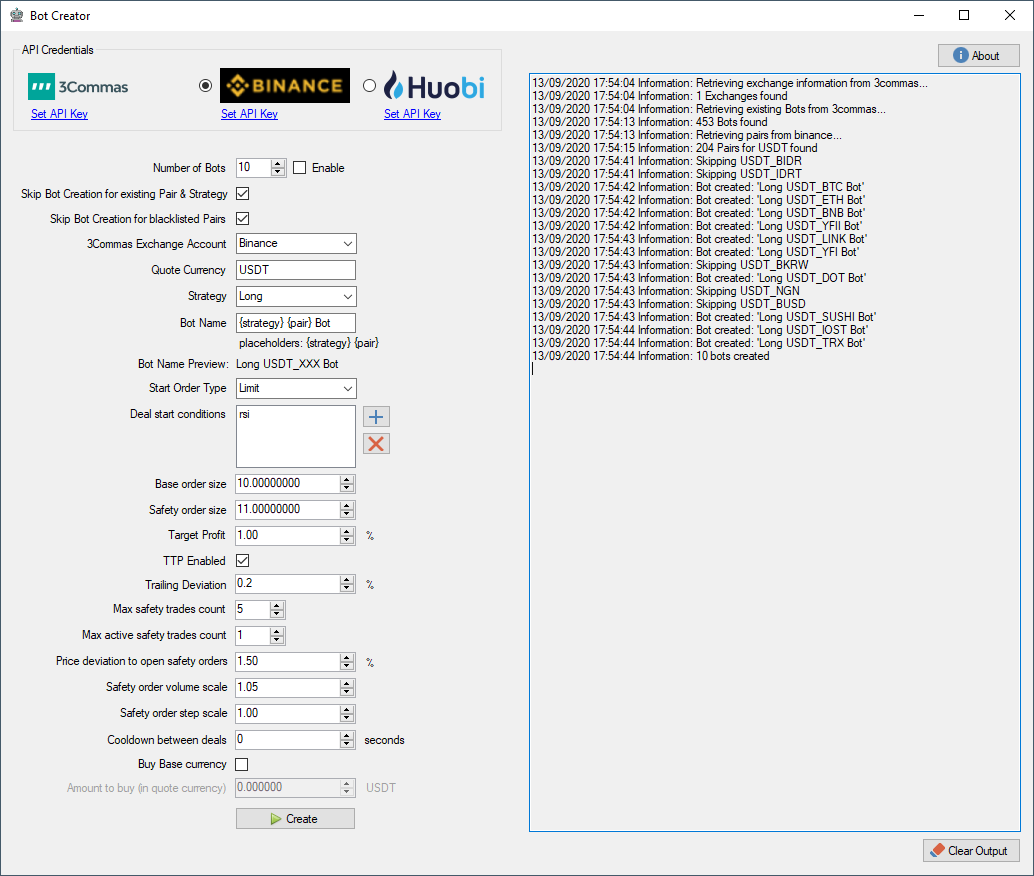
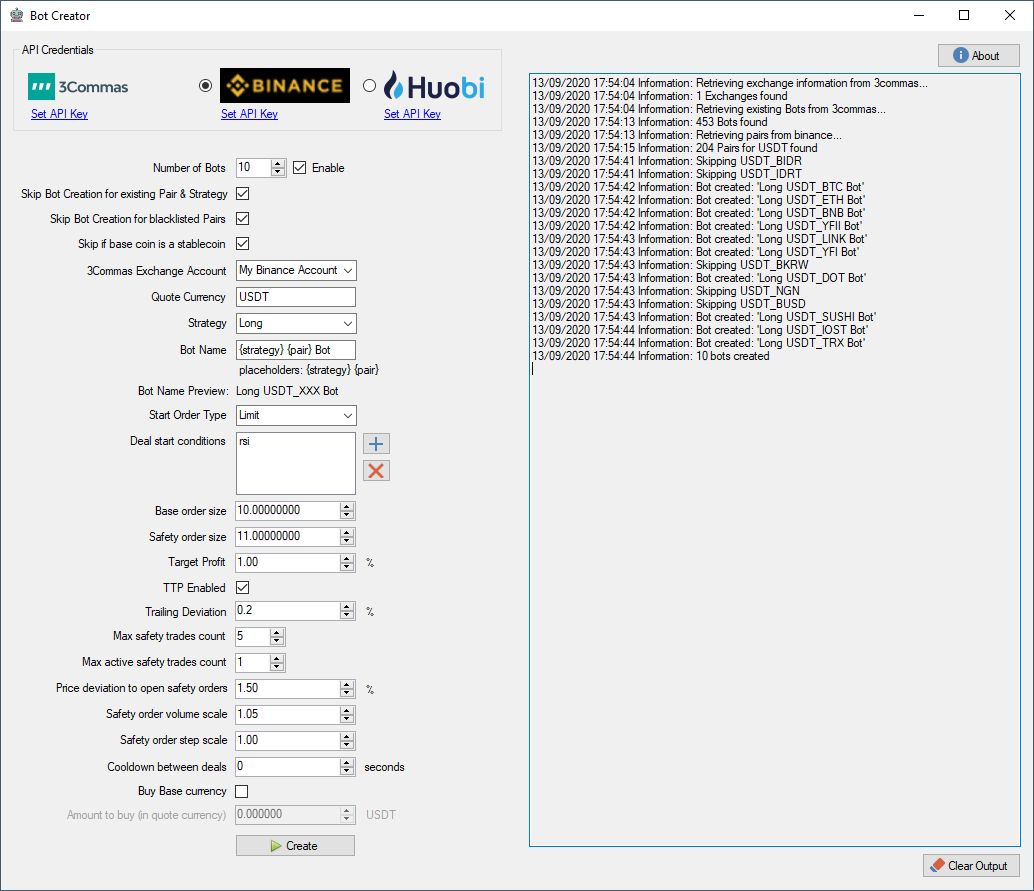
updated readme and screenshot

diff --git a/README.md b/README.md
@@ -26,6 +26,7 @@ Also if you think something is broken or have any questions, please open an [Iss
 
 - Add as many bots as you want
 - Uses pairs at the highest volume first
+- Skip bot creation if base is stablecoin
 - Skip bot creation for blacklisted pairs
 - Skip bot creation for existing pair + strategy
     - This way you can create 10 Bots, and another day the next 10 Bots without having to worry about duplicates.
@@ -35,10 +36,9 @@ Also if you think something is broken or have any questions, please open an [Iss
 
 ### Excluded Pairs
 
-All pairs that end with UP, DOWN, BEAR, BULL and are skipped.
-Also EUR Pairs.
+All pairs that end with UP, DOWN, BEAR and BULL are skipped.
 
-These are currently hard coded and will be configurable in the future
+These are currently hard coded.
 
 ## Screenshots
 
